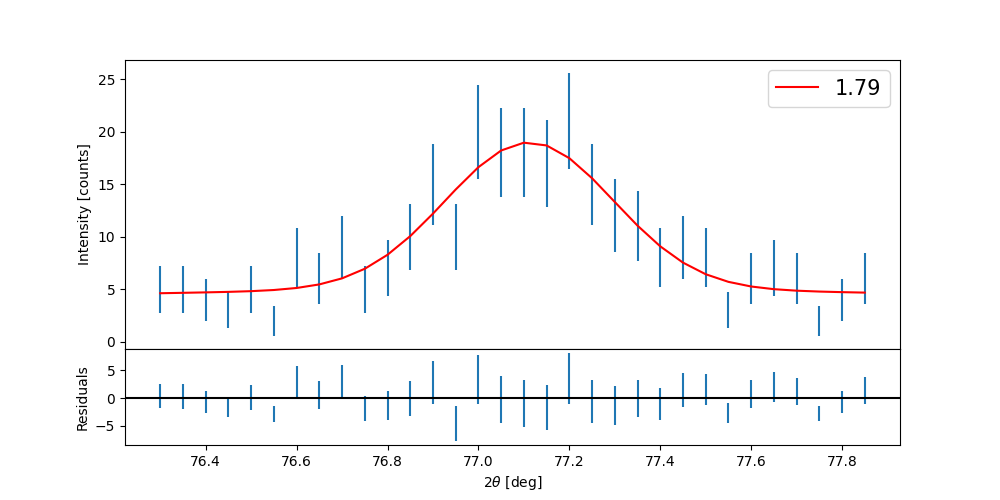
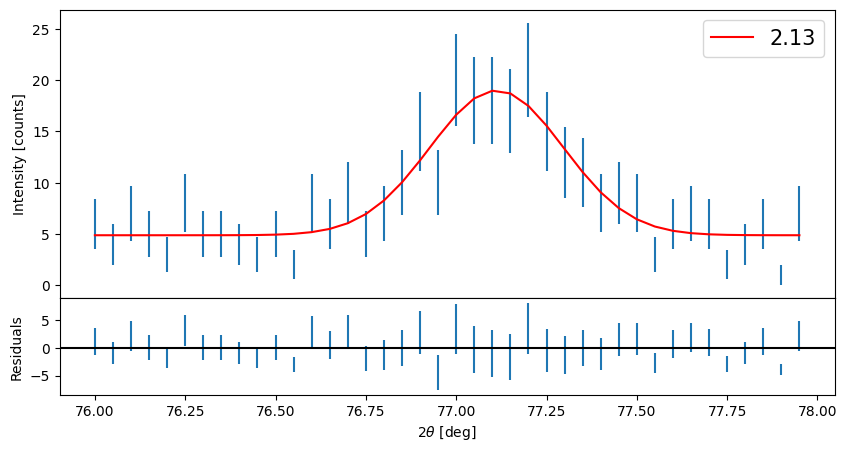
pb and sn fits

diff --git a/Pb_Sn.py b/Pb_Sn.py
@@ -1,7 +1,7 @@
 import numpy as np
 import matplotlib.pyplot as plt
 
-from readData import voigt,fit_peak,fit_n_peaks
+from readData import *
 
 def get_bds(mus,widths):
     bds=[[0,0]]*len(mus)
@@ -9,27 +9,218 @@ def get_bds(mus,widths):
         bds[i] = [mus[i]-widths[i],mus[i]+widths[i]]
     return bds
 
-'''
-# FIT PB DATA (trivial since it's still FCC)
 
-Pb_dat = np.loadtxt('data/Pb_10-03-22.UXD')
+def two_voigt(x,A1,B1,x01,sigma1, gamma1,C1,
+                A2,B2,x02,sigma2, gamma2,C2):
+    '''
+    makes a function w/ many voigt peaks
 
-mus = [31.4,36.3,52.3,62.2,65.3,77.1,85.5,88.4,99.5,108]
-widths = [0.8]*len(mus)
-bds=get_bds(mus,widths)
-amps = [100,100,10,10,2,2,2,2,2,2]
+    x: data array
 
-fit_n_peaks(Pb_dat,bds,mus,amps,'Pb')
+    n: int, number of peaks we will be fitting
 
-# FIT SN DATA (bit more complicated because of double peaks)
+    params: arr, params for each peak, must be params%n=0
+    '''
+    func = voigt(x,A1,B1,x01,sigma1, gamma1,C1) + voigt(x,A2,B2,x02,sigma2, gamma2,C2)
 
-Sn_dat = np.loadtxt('data/Sn_10-03-22.UXD')
+    return func
 
-mus=[30.7,32.1,44,45,55.4,62.65,63.9,64.65,72.45,73.25]
-widths=[0.6,0.6,0.6,0.6,0.8,0.4,0.35,0.4,0.4,0.4]
-bds=get_bds(mus,widths)
-amps = [100,100,30,50,5,10,2,5,5,5]
 
-fit_n_peaks(Sn_dat,bds,mus,amps,'Sn')'''
+def three_voigt(x,A1,B1,x01,sigma1, gamma1,C1,
+                  A2,B2,x02,sigma2, gamma2,C2,
+                  A3,B3,x03,sigma3, gamma3,C3):
+    '''
+    makes a function w/ many voigt peaks
 
-# FIT PB25 SN75 DATA (have to start doing multiple peak fits)
+    x: data array
+
+    n: int, number of peaks we will be fitting
+
+    params: arr, params for each peak, must be params%n=0
+    '''
+    func = voigt(x,A1,B1,x01,sigma1, gamma1,C1) + voigt(x,A2,B2,x02,sigma2, gamma2,C2) + voigt(x,A3,B3,x03,sigma3, gamma3,C3)
+
+    return func
+
+
+def fit_multiple_peaks(dat,bds,p0,fit_func,plot=True,filename=None):
+    # p0 = A,B,x0,sigma,gamma,C, maxfev
+    
+    cut = dat[np.argmin(np.abs(dat[:,0]-bds[0])):np.argmin(np.abs(dat[:,0]-bds[1]))]
+    popt,pcov = curve_fit(fit_func,cut[:,0],cut[:,1],p0[:-1],maxfev=p0[-1])
+    if plot==True:
+        fig, ax = plt.subplots(nrows=2, ncols = 1, gridspec_kw={'height_ratios': [3,1]}, figsize=(10,5))
+        plt.subplots_adjust(hspace=0)
+        errs = np.sqrt(cut[:,1])
+        ax[0].errorbar(cut[:,0],cut[:,1],yerr=errs,ls='')
+        mask = errs != 0
+        fit = fit_func(cut[:,0],*popt)
+        chi2 = np.sum((cut[:,1][mask]-fit[mask])**2/errs[mask])/(len(cut[mask])-len(p0))
+        ax[0].plot(cut[:,0],fit,color='r',label=np.round(chi2,2))
+        ax[0].set_ylabel("Intensity [counts]")
+        ax[0].legend()
+        ax[0].legend(fontsize=15)
+        ax[1].errorbar(cut[:,0],cut[:,1]-fit,yerr=errs,ls='')
+        ax[1].axhline(0,color='k')
+        ax[1].set_xlabel(r"$2\theta$ [deg]")
+        ax[1].set_ylabel("Residuals")
+        if filename is not None:
+            plt.savefig(filename, bbox_inches = "tight")
+            plt.show()
+        else:
+            plt.show()
+
+    return cut,popt,pcov
+
+
+def fit_peaks(dat, pars, bounds,fig_savepath,file_savepath):
+    for i,p in enumerate(pars):
+        if len(p)==7:
+            cut,popt,pcov = fit_multiple_peaks(dat, fit_func = voigt, bds=bds[i],p0=pars[i],filename=fig_savepath+ f"peak_{i}.png")
+            np.savetxt(file_savepath+f"mu_err_{i}.txt", np.array([popt[2],pcov[2,2]]))
+        elif len(p) == 13:
+            cut,popt,pcov = fit_multiple_peaks(dat, fit_func = two_voigt, bds=bds[i],p0=pars[i],filename=fig_savepath + f"peak_{i}.png")
+            np.savetxt(file_savepath+f"mu_err_{i}.txt", np.array([[popt[2],pcov[2,2]],
+                                                    [popt[8],pcov[8,8]]]) )
+        elif len(p) == 19:
+            cut,popt,pcov = fit_multiple_peaks(dat, fit_func = three_voigt, bds=bds[i],p0=pars[i],filename=fig_savepath + f"peak_{i}.png")
+            np.savetxt(file_savepath+f"mu_err_{i}.txt", np.array([[popt[2],pcov[2,2]],
+                                                    [popt[8],pcov[8,8]],
+                                                    [popt[14],pcov[14,14]]]) )
+
+
+sn=True
+
+if sn:
+    Sn_dat = np.loadtxt('data/Sn_10-03-22.UXD')
+
+    pars = [
+        [50,50,30.7,1,1,1, 50,50,32,1,1,1, 10000],
+        [30,30,43.95,1,1,1, 40,40,44.98,1,1,1, 10000],
+        [5,5,55.4,1,1,1, 10000],
+        [5,5,62.6,1,1,1 ,1,1,63.8,1,1,1, 5,5,64.6,1,1,1, 10000],
+        [10,10,72.4,1,1,1, 10,10,73.2,1,1,1, 10000]
+    ]
+
+    bds = [
+        [28,34],
+        [42,46],
+        [54,57],
+        [60,67],
+        [71,75]
+    ]
+
+    fit_peaks(Sn_dat, pars, bds, "figures/Sn/", "fits/Sn_")
+
+
+
+#===================== Pb =====================#
+
+pb=False
+if pb:
+    Pb_dat = np.loadtxt("data/Pb_10-03-22.UXD")
+
+    pars = [
+           [100,100,31.3,1,1,1],
+           [50,50,36.3,1,1,1],
+           [10,10,52.3,0.8,0.8,1],
+           [10,10,62.3,1,1,1],
+           [3,3,65.3,1,1,1],
+           [1,1,77.1,1,1,1]
+    ]
+
+    bds = [      
+          [30,32.5],
+          [35,37.5],
+          [51,53.5],
+          [61,63.5],
+          [64,66],
+          [76,78]
+     ]
+
+    fit_peaks(Pb_dat, pars, bds, "figures/Pb/", "fits/Pb_")
+
+
+#===================== Pb25_Sn75 =====================#
+
+pb25sn75=False
+
+if pb25sn75:
+    
+    Pb25Sn75_dat = np.loadtxt('data/Pb25_Sn75_10-03-22.UXD')
+
+    pars = [
+        [40,40,30.6,3,3,3, 300,300,31.3,.6,.6,1, 100,100,32.05,.8,.8,1,100000], #bad!!
+        [20,20,36.2,1,1,1,10000],
+        [15,15,43.85,1,1,1, 50,50,44.9,1,1,1,100000],
+        [50,50,52.3,1,1,1,10000],
+        [10,10,55.38,1,1,1,10000],
+        [5,5,62.36,1,1,1,10000], #could be better?
+        [1,1,63.9,1,1,1, 10,10,64.68,1,1,1, 10,10,65.3,1,1,1,100000] #bad, may just dump?
+    ]
+
+    bds = [      
+        [29,34],
+        [35,38],
+        [42,47],
+        [50,54],
+        [54,58],
+        [61.3,63.4],
+        [63.4,66]
+    ]
+
+    fit_peaks(Pb25Sn75_dat, pars, bds, "figures/Pb25Sn75/", "fits/Pb25Sn75_")
+
+
+#===================== Pb50_Sn50 =====================#
+
+pb50sn50=False
+
+if pb50sn50:
+    dat = np.loadtxt('data/Pb50_Sn50_10-03-22.UXD')
+
+
+    pars = [
+        [10,10,30.7,3,3,3, 300,300,31.4,1,1,1, 100,100,32.,1,1,1,10000], #bad!!!!
+        [100,100,36.7,1,1,1,10000],
+        [20,20,43.95,1,1,1, 50,50,44.9,1,1,1,10000], 
+        [50,50,52.3,1,1,1, 10,10,55.4,1,1,1,10000],
+        [10,10,62.4,1,1,1,10000], #could be better?
+    ]
+
+    bds = [      
+        [30,33],
+        [35,38],
+        [42,47],
+        [50,57],
+        [61.3,63.4],
+    ]
+
+    fit_peaks(dat, pars, bds, "figures/Pb50Sn50/", "fits/Pb50Sn50_")
+
+
+#===================== Pb50_Sn50 =====================#
+
+pb75sn25=False
+
+if pb75sn25:
+    dat = np.loadtxt('data/Pb75_Sn25_10-03-22.UXD')
+
+
+    pars = [
+        # [100,100,31.4,1,1,1, 10,10,32.1,1,1,1, 100000], #bad!!!!
+        # [100,100,36.4,1,1,1,10000],
+        # [20,20,52.3,1,1,1,10000], 
+        [100,100,62.3,1,1,1, 10,10,65.4,1,1,1,10000],
+        # [10,10,62.4,1,1,1,10000], #could be better?
+    ]
+
+    bds = [      
+        # [30,33],
+        # [35.5,37.5],
+        # [51,54],
+        [60,67],
+        # [61.3,63.4],
+    ]
+
+    fit_peaks(dat, pars, bds, "figures/Pb75Sn25/", "fits/Pb75Sn25_")

diff --git a/readData.py b/readData.py
@@ -44,6 +44,7 @@ def fit_peak(dat,bds,p0,plot=True,filename=None):
     return cut,popt,pcov
 
 def fit_n_peaks(data,bds,mus,amps,material_name):
+    '''fits single peaks in a row'''
 
     popt=[0]*len(bds)
     pcov=[0]*len(bds)
@@ -68,6 +69,7 @@ def fit_n_peaks(data,bds,mus,amps,material_name):
     #    b = pickle.load(handle)
 
 # don't need this code to run everytime we use the above functions, fits are done
+
 
 '''width=1
 
